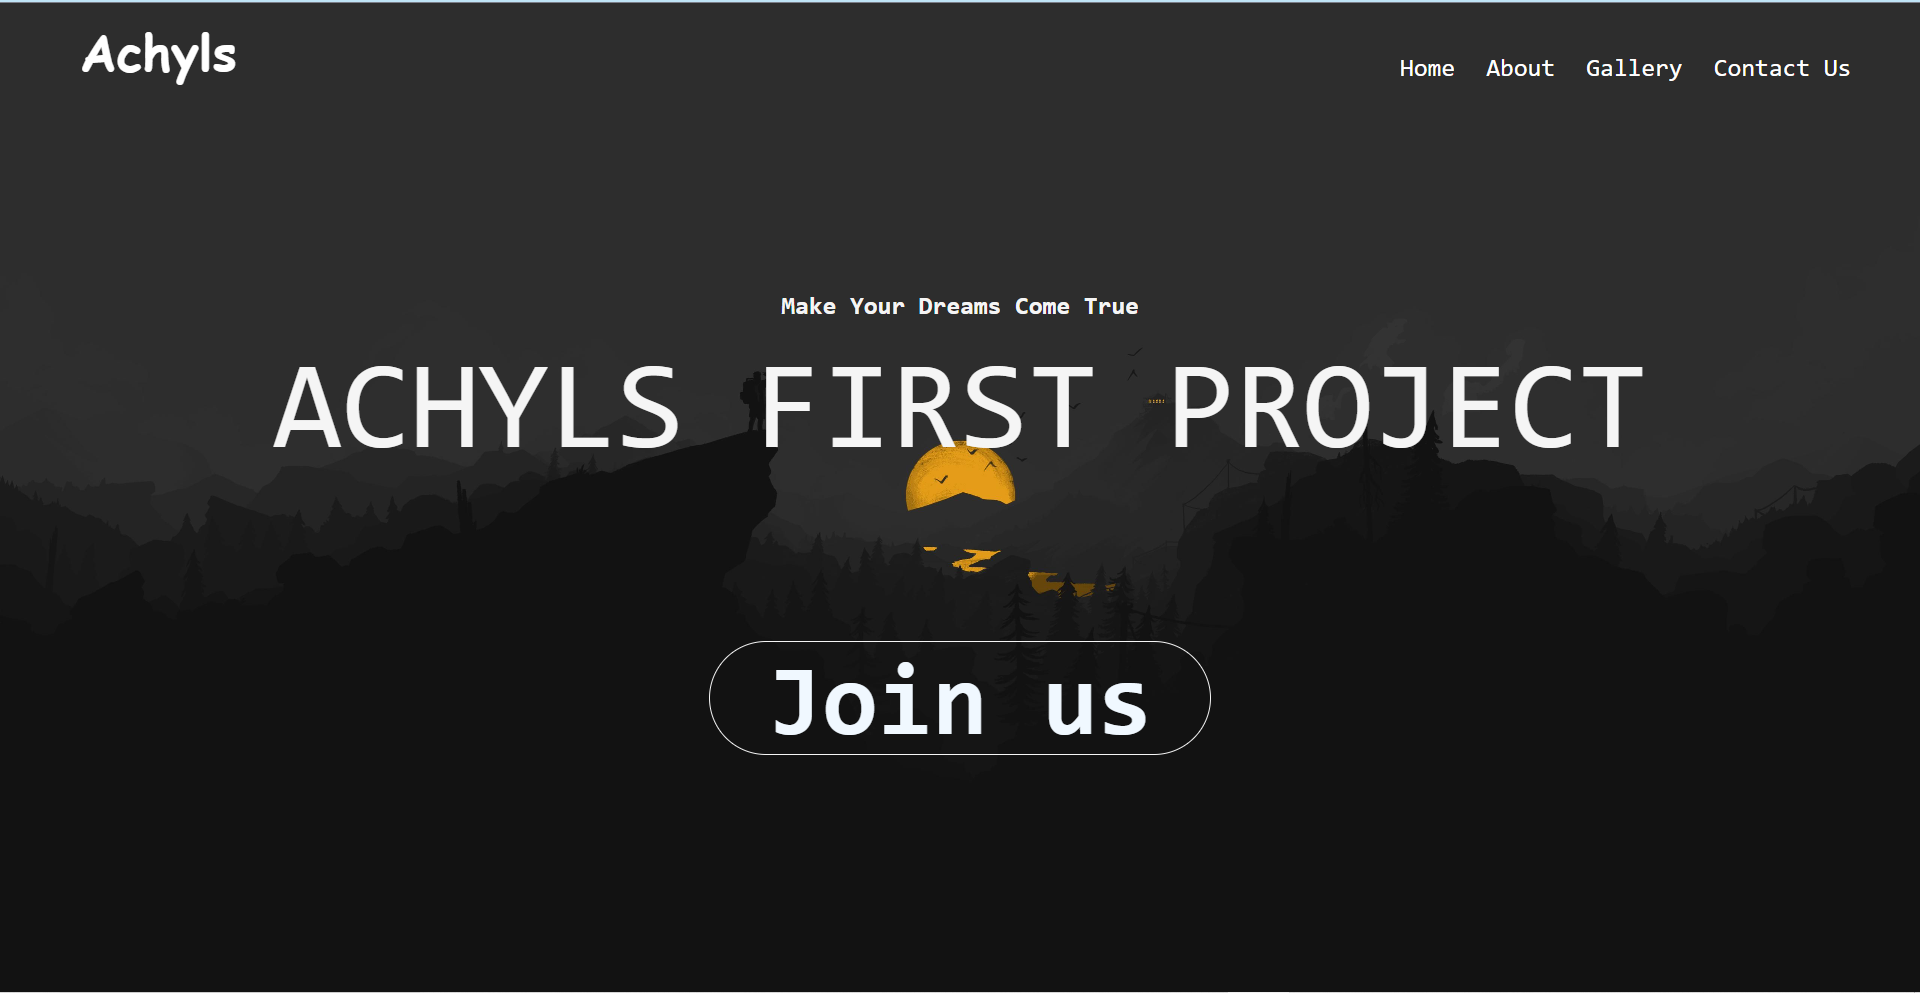
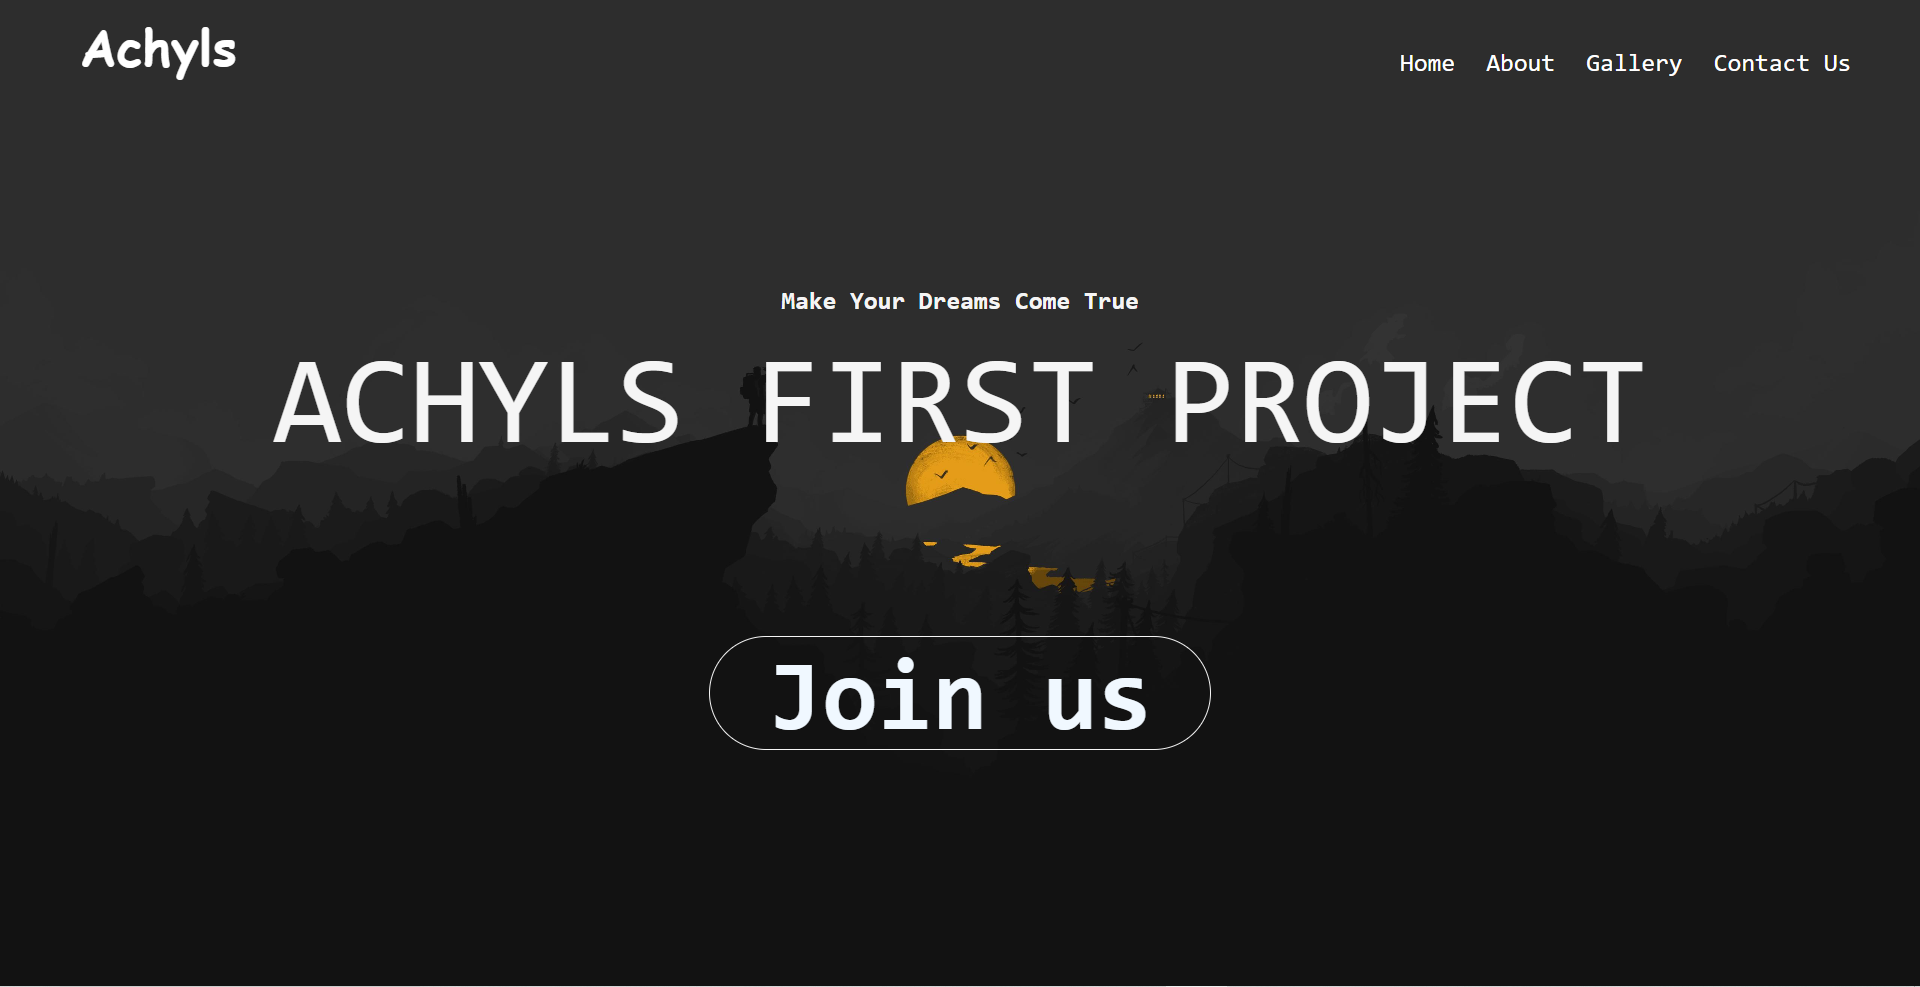
Completed full website

diff --git a/style/style.css b/style/style.css
@@ -3,30 +3,12 @@
     margin: 0;
     padding: 0;
     font-family: 'Itim', cursive;
-    color: #FCE2DB;
+   
 }
 html{
     scroll-behavior: smooth;
 }
-/* width */
-::-webkit-scrollbar {
-    width: 10px;
-  }
-  
-  /* Track */
-  ::-webkit-scrollbar-track {
-    display: none;
-  }
-   
-  /* Handle */
-  ::-webkit-scrollbar-thumb {
-    display: none;
-  }
-  
-  /* Handle on hover */
-  ::-webkit-scrollbar-thumb:hover {
-  display: none;
-  }
+
  
   
 /* Header and navigation bar*/
@@ -140,13 +122,14 @@ html{
     display: flex;
     flex-wrap: wrap;
     color: #E9E8E8;
+    justify-content: center;
 }
 
 
 
 #call-action{
   
-    margin: auto;
+    margin-top: 200px;
     text-align: center;
     font-size: 35px;
     color: #fef4f4;
@@ -157,13 +140,13 @@ html{
 
 #call-me{
     margin-left: 380px;
-    margin-top: 50px;
+    margin-top: 100px;
     border-radius: 20px;
     display: block;
     text-decoration: none;
     padding: 10px;
     font-size: 25px;
-    background-color: #f87204;
+   border: #F99417 1px solid;
     max-width: 150px;
     box-shadow: rgb(204, 219, 232) 3px 3px 6px 0px inset, rgba(255, 255, 255, 0.5) -3px -3px 6px 1px inset;
     color: rgb(218, 204, 204);
@@ -173,7 +156,7 @@ html{
     filter: sepia(10);
     transition:0.5s ease-in;
     background-color: #4158D0;
-background-image: linear-gradient(43deg, #4158D0 0%, #C850C0 46%, #FFCC70 100%);
+    background-image: linear-gradient(43deg, #4158D0 0%, #C850C0 46%, #FFCC70 100%);
 
 }
 
@@ -262,7 +245,7 @@ background-image: linear-gradient(43deg, #4158D0 0%, #C850C0 46%, #FFCC70 100%);
 #about-content{
   margin: auto;
     height: 700px;
-    width:35% ;
+    width:33% ;
     
 }
 #about-content h2{
@@ -415,7 +398,7 @@ background-image: linear-gradient(43deg, #4158D0 0%, #C850C0 46%, #FFCC70 100%);
 #contact-container{
     width: 100%;
     height: 700px;
-    background-color: #852999;
+    background-color: #C850C0;
     color: #E9E8E8;
     box-shadow: rgba(50, 50, 93, 0.25) 0px 50px 100px -20px, rgba(0, 0, 0, 0.3) 0px 30px 60px -30px, rgba(10, 37, 64, 0.35) 0px -2px 6px 0px inset;
 }
@@ -554,7 +537,7 @@ i:hover{
         top: 70px;
         gap: 0;
         flex-direction: column;
-        background-color: #B270A2;
+        background-color:#7A4495;
         box-shadow: rgba(0, 0, 0, 0.45) 0px 25px 20px -20px;
         width: 100%;
         text-align: center;

diff --git a/html/index.html b/html/index.html
@@ -8,8 +8,8 @@
     <link rel="icon" href="/Portfolio-website/Portfoio-website/image/my-logo.png">
     <link rel="stylesheet" href="/Portfolio-website/Portfoio-website/style/style.css">
     <link rel="preconnect" href="https://fonts.googleapis.com">
-<link rel="preconnect" href="https://fonts.gstatic.com" crossorigin>
-<link href="https://fonts.googleapis.com/css2?family=Roboto:wght@100&display=swap" rel="stylesheet">
+    <link rel="preconnect" href="https://fonts.gstatic.com" crossorigin>
+    <link href="https://fonts.googleapis.com/css2?family=Roboto:wght@100&display=swap" rel="stylesheet">
     <script src="https://kit.fontawesome.com/d0906cb87f.js" crossorigin="anonymous"></script>
     
 </head>
@@ -147,7 +147,7 @@
 </div>
 
 <a href="/Portfolio-website/Portfoio-website/html/blogs.html"><div id="box">
-    <img src="/Portfolio-website/Portfoio-website/image/imgx.jpg" alt="blog1" height="350px" width="400px">
+    <img src="/Portfolio-website/Portfoio-website/image/imga.jpg" alt="blog1" height="350px" width="400px">
     <div id="blog-content">
         <h2>Blog 3</h2>
     </div></a>
